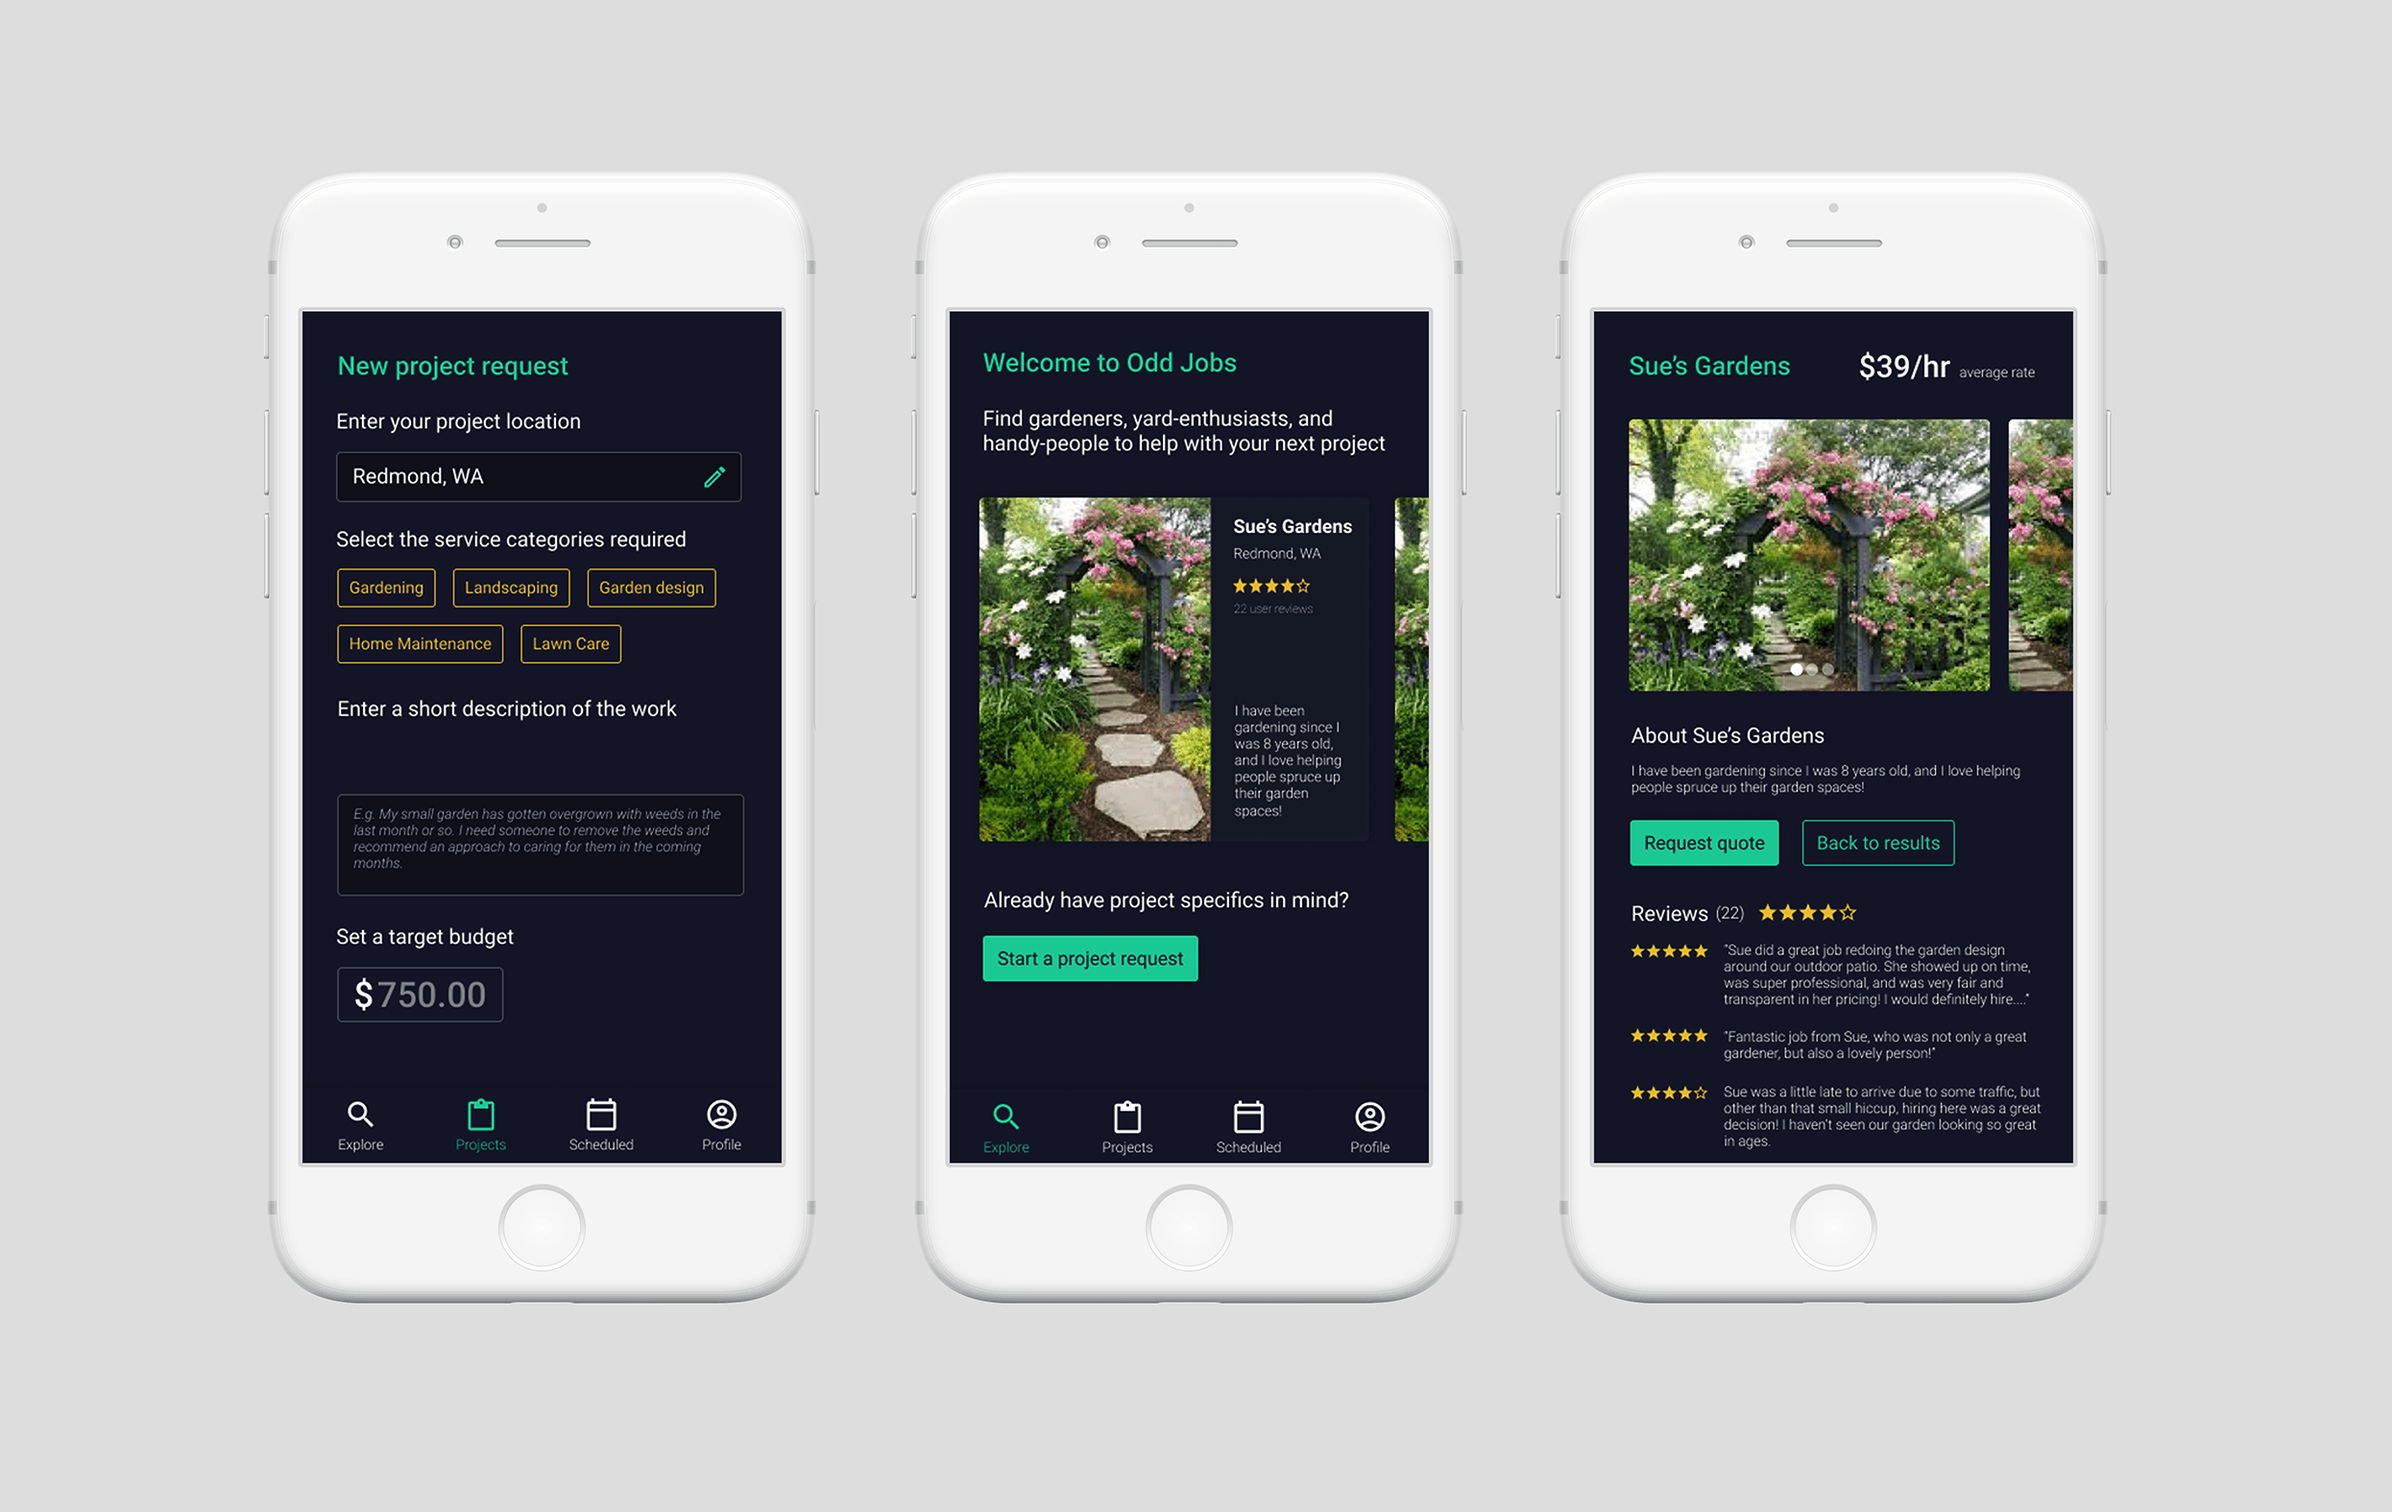
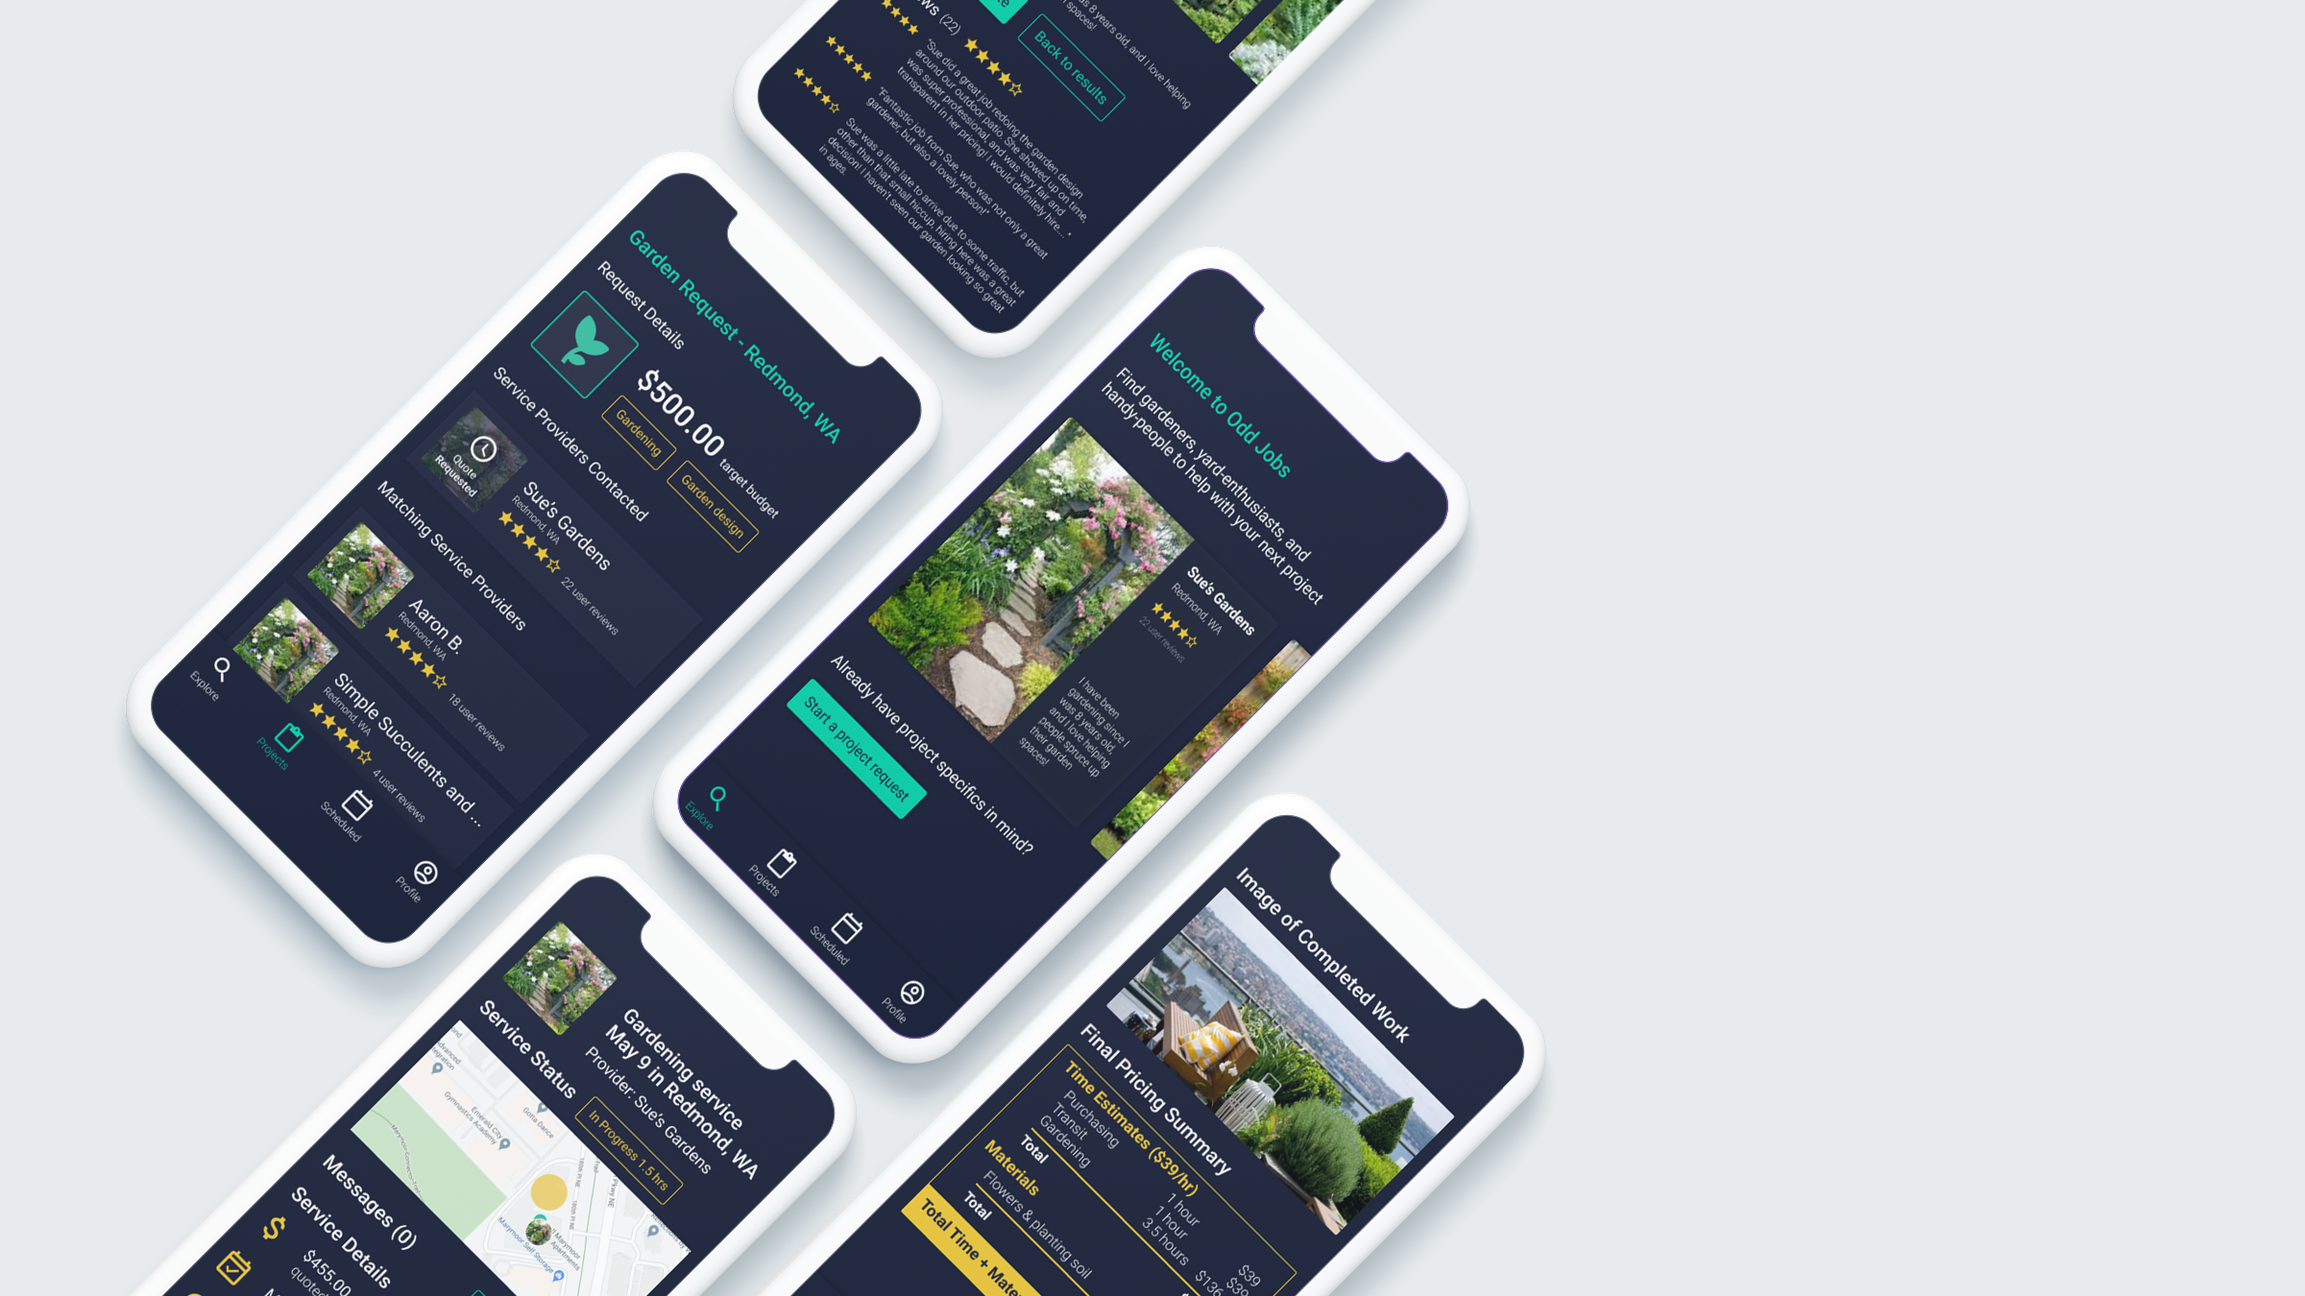
Update odd jobs project and add current job info to home page

diff --git a/src/components/splash.scss b/src/components/splash.scss
@@ -2,7 +2,20 @@
 
 .splash {
     @extend .contentWrapper;
-    margin: 11rem auto;
+    margin: 12vh auto;
+    br {
+        display: none;
+    }
+
+    @media only screen and (min-width: 480px) {
+        margin: 8rem auto;
+    }
+
+    @media only screen and (min-width: $mobileBreak) {
+        br {
+            display: block;
+        }
+    }
 
     .emphasis {
         color: $secondaryColor;
@@ -10,5 +23,27 @@
 
     h1: {
         margin: 0;
+    }
+
+    .current {
+        font-size: 1.2rem;
+        line-height: 1.8rem;
+        margin-top: 2.2rem;
+    }
+
+    a, button {
+        text-decoration: none;
+        color: inherit;
+        font-weight: bold;
+        background-color: inherit;
+        outline: none;
+        cursor: pointer;
+        border: none;
+        transition: all .25s ease;
+        padding: 0;
+
+        &:hover {
+            text-decoration: underline;
+        }
     }
 }

diff --git a/src/components/splash.js b/src/components/splash.js
@@ -1,7 +1,13 @@
 import React from "react"
 import "./splash.scss"
 
-const Splash = () => (
+const Splash = () => { 
+  
+  const onClick = () => {
+    document.getElementById('projectDisplay').scrollIntoView({ behavior: "smooth"});
+  }
+
+  return (
   <div className="splash">
     <h3>Hello! I'm Megan.</h3>
     <h1>
@@ -10,7 +16,8 @@ const Splash = () => (
       <span className="emphasis">engineering</span> to build robust, user-driven
       experiences.
     </h1>
+    <h3 class="current">I'm currently a UX Engineer at Seattle-based clothing rental startup <a href="https://armoire.style" target="_blank"  rel="noopener noreferrer">Armoire Style</a>. <br></br>Learn more <a href="https://meganewoodruff.com/about">about me</a>, or explore a sample of <button onClick={onClick}>my work</button> below.</h3>
   </div>
-)
+)}
 
 export default Splash

diff --git a/src/components/projectPage.js b/src/components/projectPage.js
@@ -52,7 +52,7 @@ export default class ProjectPage extends React.Component {
     const {
       title,
       description,
-      imageClass,
+      // imageClass,
       stats,
       children,
       imageSource,
@@ -79,11 +79,11 @@ export default class ProjectPage extends React.Component {
           </div>
 
           <div className="contentBody">{children}</div>
-          <div
+          <button
             className={`scrollToTop ${this.state.scrollToTopVisible &&
               "visible"}`}
             onClick={this.scrollToTop}
-          ></div>
+          ></button>
         </div>
       </Layout>
     )

diff --git a/src/components/projectDisplay.js b/src/components/projectDisplay.js
@@ -21,7 +21,7 @@ const ProjectDisplay = () => {
           }
         }
       }
-      oddJobsImage: file(relativePath: { eq: "oddjobsthumbnail.png" }) {
+      oddJobsImage: file(relativePath: { eq: "oddjobsmockup.png" }) {
         childImageSharp {
           fluid(maxWidth: 700) {
             ...GatsbyImageSharpFluid
@@ -32,7 +32,7 @@ const ProjectDisplay = () => {
   `)
 
   return (
-    <div className="projectDisplay">
+    <div className="projectDisplay" id="projectDisplay">
       <div className="projectContentContainer">
         <ProjectCard
           className="project"

diff --git a/src/components/projectPage.scss b/src/components/projectPage.scss
@@ -37,6 +37,8 @@
     transition: all .2s ease-in-out;
     cursor: pointer;
     float: right;
+    outline: none;
+    border: none;
     background: rgba($primaryColor, 0) url("../images/arrow.png") no-repeat center;
     background-size: 32px;
     border-radius: 50%;
